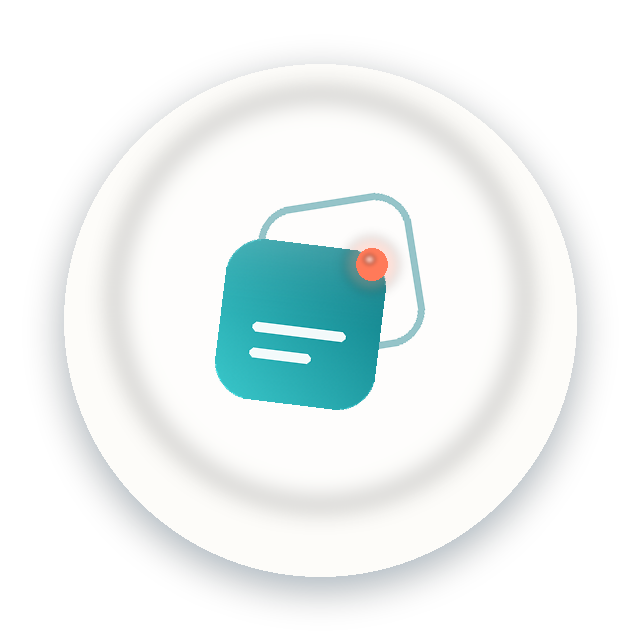
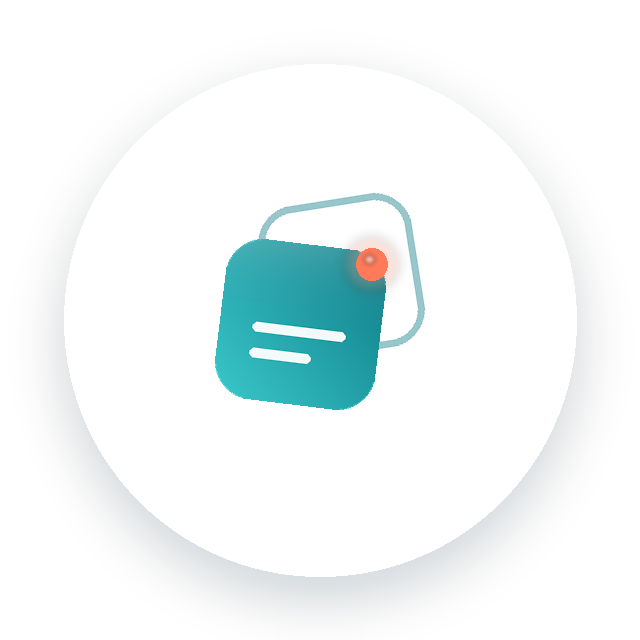
1.0.16: 修复桌面通知闪一下就没了 + 取消时显示提示后自动收起
- 通知卡片改为先滑入再展示，不再先画终态导致闪一下消失
- 卡片存活时间按模式区分：询问 30s / 进度·完成 8s / 取消提示 3s
- 新增取消提示模式（无按钮无进度条），发送方取消或连接中断时原地提示
- 去掉悬浮球内侧多余高光环，只留一圈柔和外投影
- 主窗口重新激活时桌面卡片与气泡自动退场

Changed region(s): [[0.1562, 0.125, 0.8438, 0.8125]]

diff --git a/lib/state/app_state.dart b/lib/state/app_state.dart
@@ -81,11 +81,13 @@ class AppState extends ChangeNotifier {
 
   // 桌面通知状态机：
   // _bubbleShown/_bubbleAccepted —— 悬浮球气泡流程是否活着、用户是否已确认。
+  // _toastShown —— 右下角通知卡片流程是否活着（询问/进度都在这张卡上）。
   // _progressSurfaceShown —— 确认后进度面板（气泡或卡片）是否已创建。
   // _desktopSuppressed —— 用户打开了主窗口：桌面提醒全部退场并停止推进。
   // _useBallForFlow —— 本次流程走悬浮球气泡（true）还是通知卡片（false）。
   bool _bubbleShown = false;
   bool _bubbleAccepted = false;
+  bool _toastShown = false;
   bool _progressSurfaceShown = false;
   bool _desktopSuppressed = false;
   bool _useBallForFlow = false;
@@ -161,6 +163,7 @@ class AppState extends ChangeNotifier {
         incoming = request;
         _bubbleShown = false;
         _bubbleAccepted = false;
+        _toastShown = false;
         _progressSurfaceShown = false;
         _desktopSuppressed = false;
         unawaited(_notifyDesktopIncoming(request));
@@ -748,6 +751,7 @@ class AppState extends ChangeNotifier {
       _bubbleAccepted = false;
       unawaited(DesktopService.hideBubble());
     }
+    _toastShown = false;
     // 拒绝即流程结束：吸附的球缩回把手。
     unawaited(DesktopService.collapseBall());
     notifyListeners();
@@ -777,6 +781,7 @@ class AppState extends ChangeNotifier {
       await DesktopService.showBallAlert();
       _showIncomingBubble(request);
     } else {
+      _toastShown = true;
       unawaited(DesktopService.showToast('收到传输请求', body,
           mode: DesktopService.bubbleAsk));
     }
@@ -839,30 +844,44 @@ class AppState extends ChangeNotifier {
     }
   }
 
-  /// 接收流程结束：面板切"完成"态询问打开目录；悬浮球缩回把手。
+  /// 接收流程结束：完成态切"打开目录"，取消/中断态显示提示
+  /// （原生层 3 秒后自动收起）；悬浮球缩回把手。
   void _notifyDesktopFinished(TransferSession session) {
-    if (!_bubbleAccepted || session.direction != TransferDirection.incoming) return;
+    if (session.direction != TransferDirection.incoming) return;
+    // 本次流程有没有在桌面上露过面：气泡确认过 / 卡片在展 / 询问气泡在展。
+    // 什么都没露过（比如用户全程看着主窗口）就不必打扰。
+    final bool surfaceActive = _bubbleAccepted || _toastShown || _bubbleShown;
+    final bool flowOnBall = _useBallForFlow;
     _bubbleShown = false;
     _bubbleAccepted = false;
-    if (_desktopSuppressed) return; // 用户已回到主窗口，别再打扰。
-    if (session.status != TransferStatus.completed) {
-      unawaited(_useBallForFlow
-          ? DesktopService.hideBubble()
-          : DesktopService.hideToast());
+    _toastShown = false;
+    _progressSurfaceShown = false;
+    if (_desktopSuppressed || !surfaceActive) {
       unawaited(DesktopService.collapseBall());
       return;
     }
-    unawaited(_useBallForFlow
-        ? DesktopService.showBubble(
-            '接收完成',
-            '${session.files.length} 个文件已保存，是否打开保存目录？',
-            mode: DesktopService.bubbleDone,
-          )
-        : DesktopService.showToast(
-            '接收完成',
-            '${session.files.length} 个文件已保存，是否打开保存目录？',
-            mode: DesktopService.bubbleDone,
-          ));
+    if (session.status == TransferStatus.completed) {
+      unawaited(flowOnBall
+          ? DesktopService.showBubble(
+              '接收完成',
+              '${session.files.length} 个文件已保存，是否打开保存目录？',
+              mode: DesktopService.bubbleDone,
+            )
+          : DesktopService.showToast(
+              '接收完成',
+              '${session.files.length} 个文件已保存，是否打开保存目录？',
+              mode: DesktopService.bubbleDone,
+            ));
+    } else {
+      // 发送方取消（/cancel）或连接中断：在原卡片上显示提示，
+      // 原生层按 mode=canceled 的存活时间（3 秒）自动收起，回到原状态。
+      final String hint = session.status == TransferStatus.canceled
+          ? '${session.peerAlias} 取消了发送'
+          : '与 ${session.peerAlias} 的连接中断，传输未完成';
+      unawaited(flowOnBall
+          ? DesktopService.updateBubble(hint, mode: DesktopService.bubbleCanceled)
+          : DesktopService.updateToast(hint, mode: DesktopService.bubbleCanceled));
+    }
     unawaited(DesktopService.collapseBall());
   }
 
@@ -897,6 +916,7 @@ class AppState extends ChangeNotifier {
         _desktopSuppressed = true;
         _bubbleShown = false;
         _bubbleAccepted = false;
+        _toastShown = false;
       case 'onBubbleAction':
         final String action = args['action']?.toString() ?? '';
         if (action == 'accept' && incoming != null) {
@@ -919,6 +939,7 @@ class AppState extends ChangeNotifier {
         _desktopSuppressed = true;
         _bubbleShown = false;
         _bubbleAccepted = false;
+        _toastShown = false;
         break;
       case 'onBubbleTimeout':
         // 询问态超时算用户没表态：球缩回把手，流程结束。

diff --git a/lib/core/release_notes.dart b/lib/core/release_notes.dart
@@ -9,10 +9,16 @@ class WispReleaseNotes {
   const WispReleaseNotes._();
 
   /// 当前应用版本（与 pubspec.yaml 的 `version:` 保持一致）。
-  static const String currentVersion = '1.0.15';
+  static const String currentVersion = '1.0.16';
 
   /// 新版本在前，设置页按这个顺序展示。
   static const List<WispReleaseEntry> entries = <WispReleaseEntry>[
+    WispReleaseEntry(version: '1.0.16', changes: <String>[
+      '修复桌面通知「闪一下就没了」：卡片改为先滑入再展示，询问态存活延到 30 秒',
+      '发送方取消或连接中断时，通知卡片原地显示提示，3 秒后自动收起并回归原状态',
+      '去掉悬浮球内侧多余的高光环，只保留一圈柔和外投影',
+      '主窗口重新激活时自动退场桌面卡片与气泡，不再遮挡窗口',
+    ]),
     WispReleaseEntry(version: '1.0.15', changes: <String>[
       '修复 Android 启动报「无法占用端口：Operation not permitted」：补齐 INTERNET 等权限声明',
       'Android 组播发现接入 MulticastLock，能稳定收到局域网 announce',

diff --git a/lib/services/desktop_service.dart b/lib/services/desktop_service.dart
@@ -286,10 +286,14 @@ class DesktopService {
     }
   }
 
-  /// 气泡消息的三种模式，与 C++ 层的 bubble_mode_ 一一对应。
+  /// 气泡/卡片消息的四种模式，与 C++ 层的 kCardMode* 一一对应。
   static const int bubbleAsk = 0;
   static const int bubbleProgress = 1;
   static const int bubbleDone = 2;
+
+  /// 取消/中断提示：卡片只显示标题和正文，没有按钮与进度条，
+  /// 原生层 3 秒后自动收起（ToastLifetimeMs）。
+  static const int bubbleCanceled = 3;
 
   /// 在悬浮球旁边弹出气泡。mode：0 询问接收 / 1 传输进度 / 2 传输完成。
   static Future<void> showBubble(

diff --git a/windows/runner/flutter_window.cpp b/windows/runner/flutter_window.cpp
@@ -58,6 +58,26 @@ constexpr int kCardWidth = 340;
 constexpr int kCardHeight = 132;
 constexpr int kCardMargin = 16;  // 阴影边距
 
+// 卡片模式（与 Dart 侧 DesktopService.bubbleAsk/Progress/Done/Canceled 对齐）：
+// 0=询问 1=进度 2=完成 3=取消/中断提示（无按钮，看完自动收）。
+// 询问给 30s：用户要决定收不收，8s 太仓促，是"通知闪一下就没了"的另一半来源。
+// 取消提示只给 3s：明确告知结局即可，停留太久反而像没关掉。
+constexpr int kCardModeAsk = 0;
+constexpr int kCardModeProgress = 1;
+constexpr int kCardModeDone = 2;
+constexpr int kCardModeCanceled = 3;
+
+UINT_PTR ToastLifetimeMs(int mode) {
+  switch (mode) {
+    case kCardModeAsk:
+      return 30000;
+    case kCardModeCanceled:
+      return 3000;
+    default:
+      return 8000;  // 进度 / 完成
+  }
+}
+
 // Timer ids。主窗口 2（托盘闪烁），球窗口 3/6/7/8，气泡 5，通知 9/10。
 constexpr UINT_PTR kFlashTimerId = 2;
 constexpr UINT_PTR kBallAnimTimerId = 3;
@@ -752,7 +772,11 @@ LRESULT CALLBACK BubbleWndProc(HWND hwnd, UINT message, WPARAM wparam,
         KillTimer(hwnd, kBubbleTimeoutTimerId);
         if (g_instance != nullptr) {
           g_instance->HideBubble();
-          g_instance->InvokeDart("onBubbleTimeout", flutter::EncodableMap{});
+          // 取消提示的超时只是"看完自动收"，不算询问超时——
+          // 不能触发 onBubbleTimeout，否则 Dart 会误以为询问被晾过。
+          if (g_instance->bubble_mode_ != kCardModeCanceled) {
+            g_instance->InvokeDart("onBubbleTimeout", flutter::EncodableMap{});
+          }
         }
         return 0;
       }
@@ -1406,9 +1430,14 @@ void FlutterWindow::RenderBall(float expand_t, BYTE alpha, float scale) {
 void FlutterWindow::ShowToast(const std::wstring& title,
                               const std::wstring& body, int mode,
                               const std::wstring& progress) {
+  WispDbgLog("ShowToast mode=" + std::to_string(mode) + " hwnd_alive=" +
+             std::to_string(toast_window_ != nullptr));
   if (toast_window_ == nullptr) {
     CreateToastWindow();
-    if (toast_window_ == nullptr) return;
+    if (toast_window_ == nullptr) {
+      WispDbgLog("ShowToast: CreateToastWindow failed");
+      return;
+    }
   }
   toast_title_ = title;
   toast_body_ = body;
@@ -1430,13 +1459,21 @@ void FlutterWindow::ShowToast(const std::wstring& title,
                SWP_NOSIZE | SWP_NOZORDER | SWP_NOACTIVATE);
 
   ShowWindow(toast_window_, SW_SHOWNOACTIVATE);
-  RenderToast(1);
+  WispDbgLog("ShowToast: shown visible=" +
+             std::to_string(IsWindowVisible(toast_window_) ? 1 : 0));
+  // 存活时间按模式区分：询问 30s（用户要想一想）；进度 8s（每次更新顺延）；
+  // 完成 8s；取消提示 3s（看完即走）。
   KillTimer(toast_window_, kToastTimeoutTimerId);
-  toast_timeout_timer_ =
-      SetTimer(toast_window_, kToastTimeoutTimerId, 8000, nullptr);
+  toast_timeout_timer_ = SetTimer(toast_window_, kToastTimeoutTimerId,
+                                  ToastLifetimeMs(mode), nullptr);
   // 滑入动画（仅在全新弹出时播放）。
+  //
+  // 注意时序：这里必须先画在屏幕外（slide_t=0），让动画自己滑进来。
+  // 以前先画终态再从 0 开始播动画——用户会看到"完整卡片闪一下 → 消失 →
+  // 再滑进来"，正是"通知闪一下就没了"观感的来源之一。
   KillTimer(toast_window_, kToastAnimTimerId);
   toast_anim_phase_ = 0;
+  RenderToast(0);
   toast_anim_timer_ = SetTimer(toast_window_, kToastAnimTimerId, 16, nullptr);
 }
 
@@ -1449,12 +1486,13 @@ void FlutterWindow::UpdateToast(const std::wstring& body, int mode,
   RenderToast(1);
   // 有内容更新就顺延存活时间（进度每 200ms 一次，卡片保持到传输结束）。
   KillTimer(toast_window_, kToastTimeoutTimerId);
-  toast_timeout_timer_ =
-      SetTimer(toast_window_, kToastTimeoutTimerId, 8000, nullptr);
+  toast_timeout_timer_ = SetTimer(toast_window_, kToastTimeoutTimerId,
+                                  ToastLifetimeMs(mode), nullptr);
 }
 
 void FlutterWindow::HideToast() {
   if (toast_window_ == nullptr) return;
+  WispDbgLog("HideToast mode=" + std::to_string(toast_mode_));
   KillTimer(toast_window_, kToastTimeoutTimerId);
   toast_timeout_timer_ = 0;
   KillTimer(toast_window_, kToastAnimTimerId);
@@ -1533,7 +1571,13 @@ ToastButtons DrawCardContent(Gdiplus::Graphics& g, HWND hwnd, int win_w,
   ToastButtons buttons{};
   buttons.card = RECT{0, 0, win_w, win_h};
 
-  if (mode == 1) {
+  if (mode == kCardModeCanceled) {
+    // 取消/中断提示：只有标题和正文，不放按钮也不放进度条——
+    // 这张卡 3 秒后自动收起，不需要任何交互。
+    return buttons;
+  }
+
+  if (mode == kCardModeProgress) {
     // 进度模式：进度条 + 百分比（不画按钮，避免误点）。
     Gdiplus::RectF bar(text_x, button_y + ScaleFor(hwnd, 8), text_w,
                        ScaleFor(hwnd, 8));
@@ -1558,7 +1602,7 @@ ToastButtons DrawCardContent(Gdiplus::Graphics& g, HWND hwnd, int win_w,
     return buttons;
   }
 
-  const bool done = mode == 2;
+  const bool done = mode == kCardModeDone;
   RECT primary{text_x + half + gap, button_y, text_x + half + gap + half,
                button_y + button_h};
   RECT secondary{text_x, button_y, text_x + half, button_y + button_h};
@@ -1597,12 +1641,15 @@ void FlutterWindow::RenderToast(float slide_t) {
 }
 
 void FlutterWindow::HandleToastClick(POINT pt) {
-  if (toast_mode_ == 1) return;  // 进度模式不可点。
+  // 进度卡不可点；取消提示 3 秒自动收，也不可点。
+  if (toast_mode_ == kCardModeProgress || toast_mode_ == kCardModeCanceled) {
+    return;
+  }
   const char* action = nullptr;
   if (PtInRect(&g_toast_buttons.primary, pt)) {
-    action = toast_mode_ == 2 ? "openFolder" : "accept";
+    action = toast_mode_ == kCardModeDone ? "openFolder" : "accept";
   } else if (PtInRect(&g_toast_buttons.secondary, pt)) {
-    if (toast_mode_ == 2) {
+    if (toast_mode_ == kCardModeDone) {
       HideToast();  // 完成卡的"关闭"只收卡片，不回传。
       return;
     }
@@ -1771,8 +1818,8 @@ void FlutterWindow::ShowBubble(const std::wstring& title,
   RenderBubble();
 
   KillTimer(bubble_window_, kBubbleTimeoutTimerId);
-  bubble_timeout_timer_ =
-      SetTimer(bubble_window_, kBubbleTimeoutTimerId, 60000, nullptr);
+  bubble_timeout_timer_ = SetTimer(bubble_window_, kBubbleTimeoutTimerId,
+                                   ToastLifetimeMs(bubble_mode_), nullptr);
 }
 
 void FlutterWindow::UpdateBubble(const std::wstring& body, int mode,
@@ -1811,9 +1858,10 @@ void FlutterWindow::RenderBubble() {
 
 void FlutterWindow::HandleBubbleClick(POINT pt) {
   const char* action = nullptr;
-  if (bubble_mode_ != 1) {
+  // 进度卡与取消提示都不可点（提示 3 秒自动收）。
+  if (bubble_mode_ != kCardModeProgress && bubble_mode_ != kCardModeCanceled) {
     if (PtInRect(&g_bubble_buttons.primary, pt)) {
-      action = bubble_mode_ == 2 ? "openFolder" : "accept";
+      action = bubble_mode_ == kCardModeDone ? "openFolder" : "accept";
     } else if (PtInRect(&g_bubble_buttons.secondary, pt)) {
       action = "dismiss";
     }
@@ -1917,6 +1965,7 @@ FlutterWindow::MessageHandler(HWND hwnd, UINT const message,
   if (message == WM_ACTIVATE && LOWORD(wparam) != WA_INACTIVE) {
     if ((toast_window_ != nullptr && IsWindowVisible(toast_window_)) ||
         (bubble_window_ != nullptr && IsWindowVisible(bubble_window_))) {
+      WispDbgLog("WM_ACTIVATE: desktop surfaces retreat");
       SetTrayFlashing(false);
       HideToast();
       HideBubble();

diff --git a/tools/gen_icon.py b/tools/gen_icon.py
@@ -238,28 +238,36 @@ def make_preview(icon: Image.Image, size: int = 1024) -> Image.Image:
 
 
 def make_ball(size: int = 640) -> Image.Image:
-    """悬浮球：圆形浅底 + 同一套 glyph，带外投影。"""
+    """悬浮球：纯白圆盘 + 一圈柔和投影 + 同一套 glyph。
+
+    视觉上只允许有**一圈**轮廓感（外投影）。旧版在圆盘内叠了一块
+    高光椭圆，它的模糊边缘在浅底上形成第二圈灰环，被反馈
+    "悬浮球有两个边框"——已去掉，中心提亮改用无硬边的径向渐变。
+    """
     canvas = Image.new("RGBA", (size, size), (0, 0, 0, 0))
     pad = int(size * 0.10)
     d = size - pad * 2
 
+    # 外投影：往下偏一点、更大更柔、更淡，读作"悬浮的影子"而不是描边。
     shadow = Image.new("RGBA", (size, size), (0, 0, 0, 0))
     ImageDraw.Draw(shadow).ellipse(
-        [pad, pad + int(size * 0.02), pad + d, pad + d + int(size * 0.02)],
-        fill=(18, 60, 90, 90))
-    shadow = shadow.filter(ImageFilter.GaussianBlur(size * 0.028))
+        [pad, pad + int(size * 0.035), pad + d, pad + d + int(size * 0.035)],
+        fill=(18, 60, 90, 52))
+    shadow = shadow.filter(ImageFilter.GaussianBlur(size * 0.040))
     canvas = Image.alpha_composite(canvas, shadow)
 
+    # 圆盘：纯白。中心不做分块高光，改用整面径向渐变（边缘 alpha 归零，
+    # 不产生任何可见的分界线）。
     disc = Image.new("RGBA", (size, size), (0, 0, 0, 0))
     ImageDraw.Draw(disc).ellipse([pad, pad, pad + d, pad + d],
-                                 fill=BG_TOP + (255,))
-    # 圆盘内一点点径向渐变（用缩小的浅色圆叠出来，避免 numpy）。
-    inner = Image.new("RGBA", (size, size), (0, 0, 0, 0))
-    ImageDraw.Draw(inner).ellipse(
-        [pad + d * 0.10, pad + d * 0.06, pad + d * 0.90, pad + d * 0.86],
-        fill=(255, 255, 255, 110))
-    inner = inner.filter(ImageFilter.GaussianBlur(size * 0.02))
-    disc = Image.alpha_composite(disc, inner)
+                                 fill=(255, 255, 255, 255))
+    grad = Image.radial_gradient("L").resize((d, d), Image.LANCZOS)
+    # 径向渐变：中心 0 → 边缘 255。反转并压低强度（最多 26/255 的白），
+    # 让中心比边缘亮一点点，但没有可察觉的"环"。
+    lift_mask = grad.point(lambda v: int((255 - v) * 26 / 255 * 1.4))
+    lift = Image.new("RGBA", (d, d), (255, 255, 255, 0))
+    lift.putalpha(lift_mask)
+    disc.alpha_composite(lift, (pad, pad))
     canvas = Image.alpha_composite(canvas, disc)
 
     glyph_size = int(d * 0.72)
